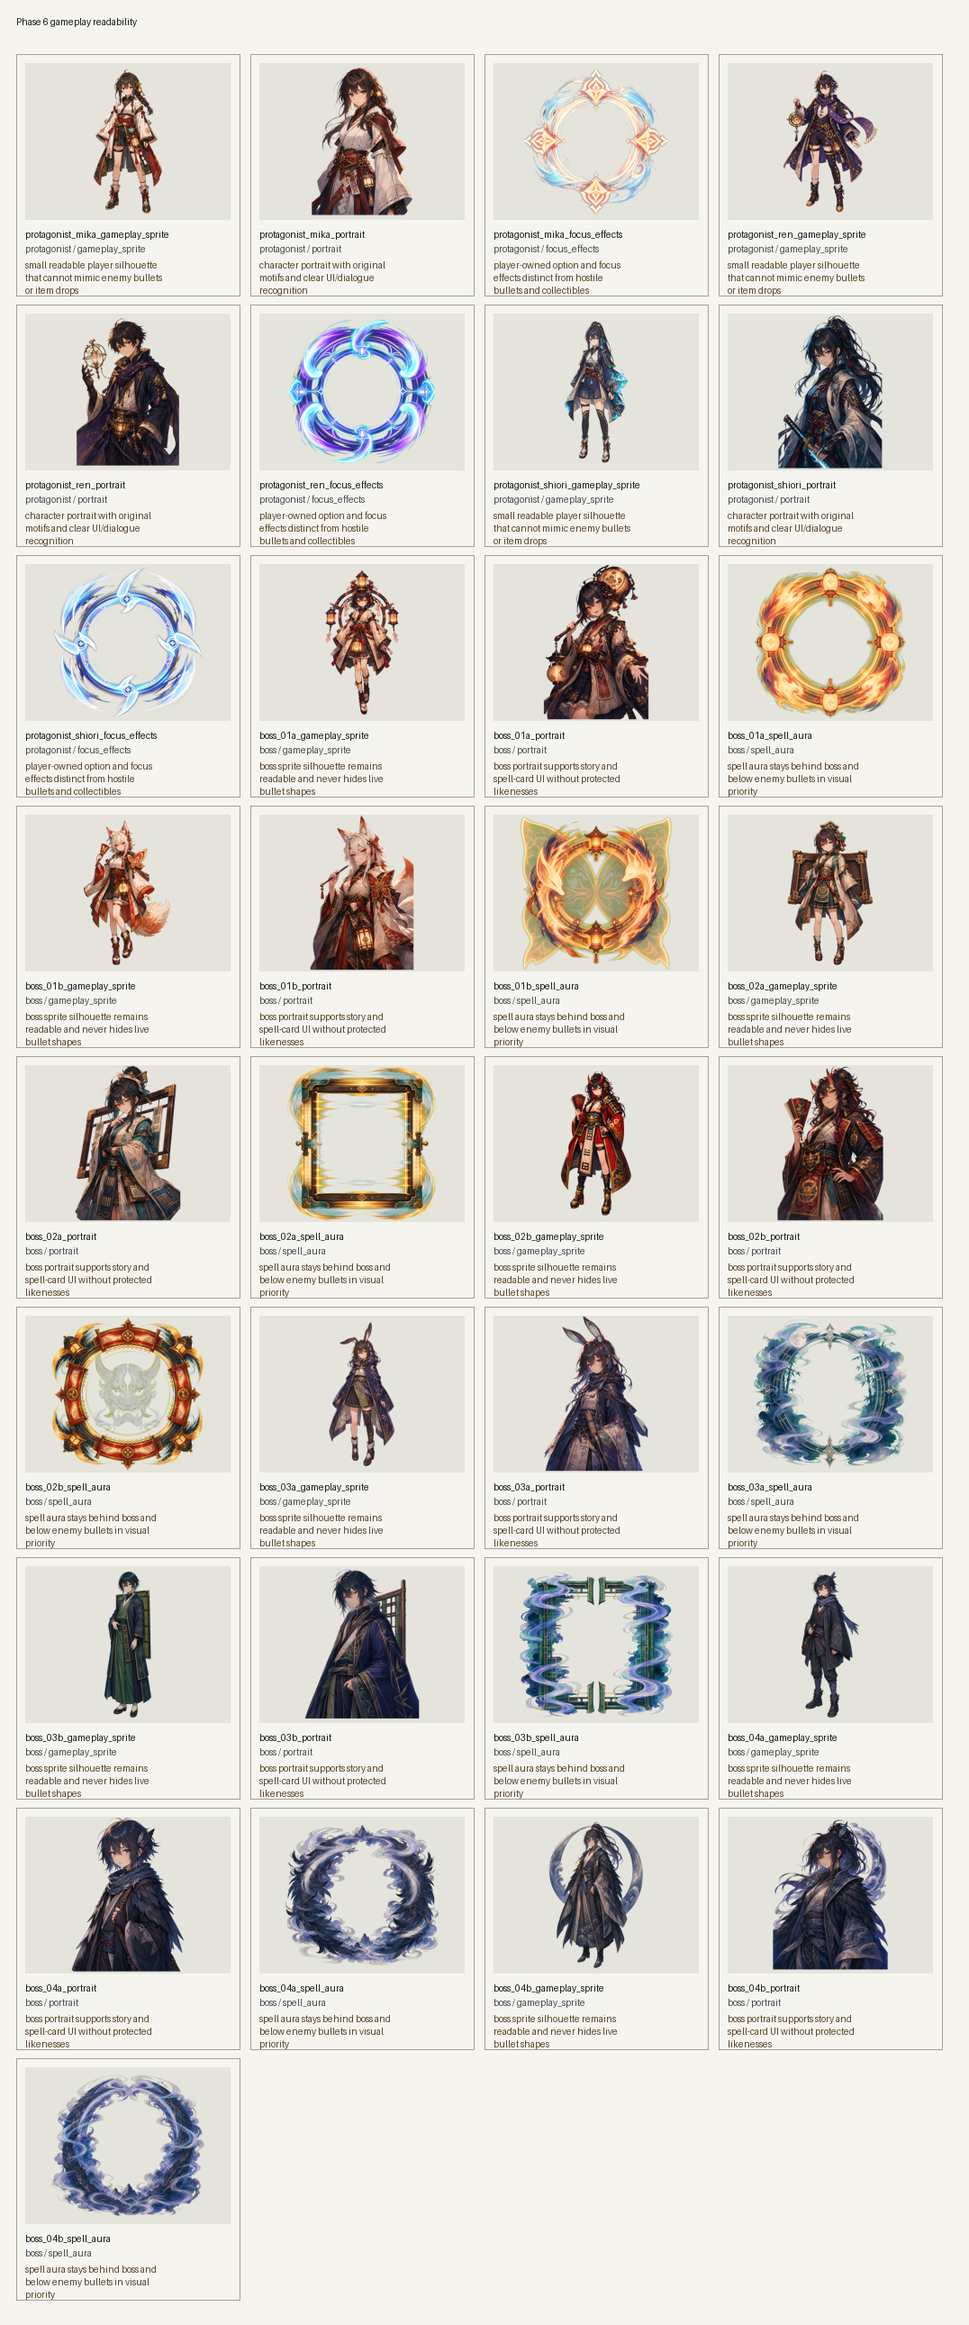
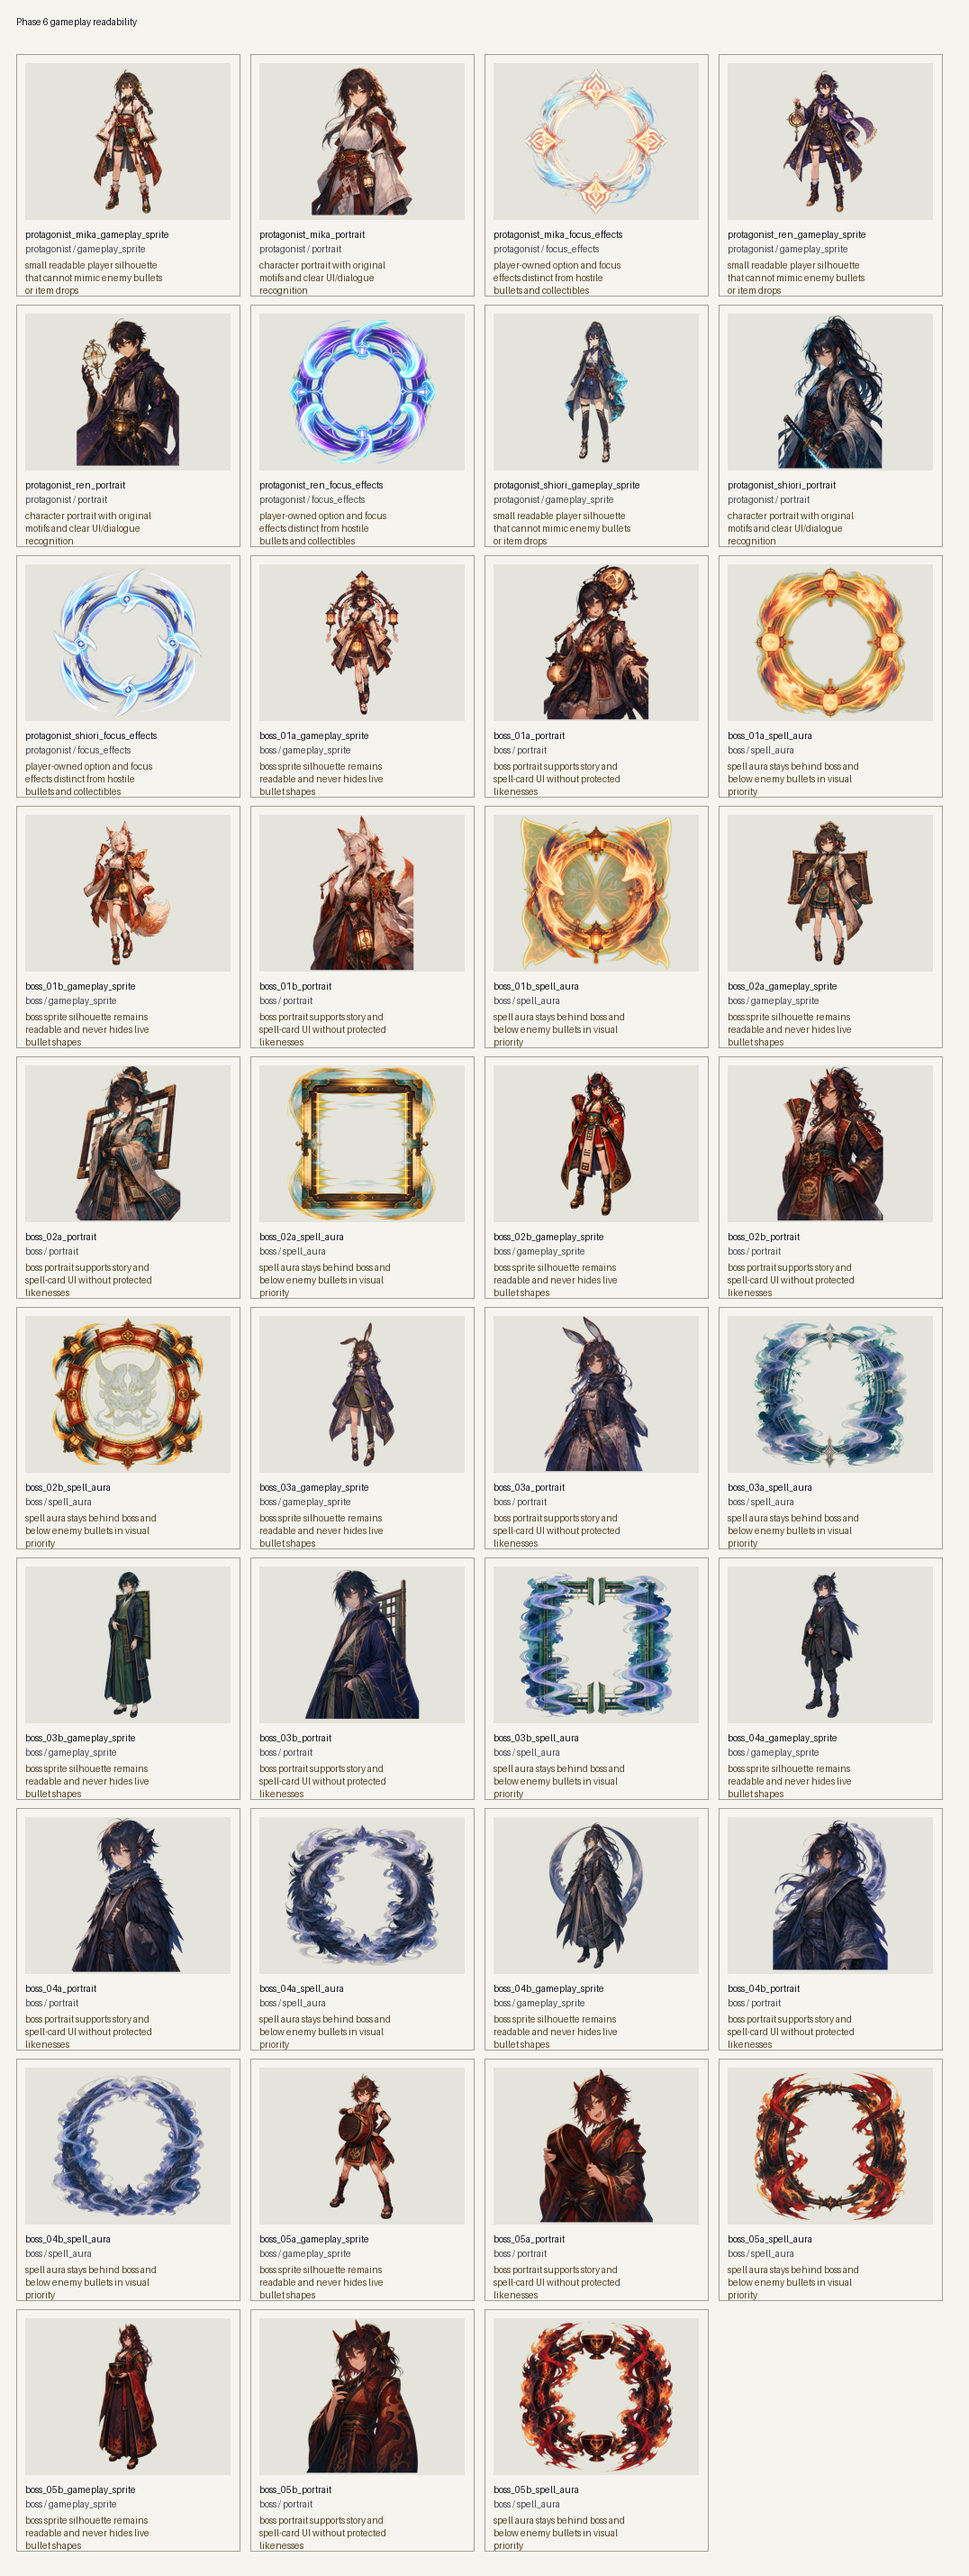
feat: add phase 6 boss art stage 5

diff --git a/docs/art/review/phase6_asset_acceptance.md b/docs/art/review/phase6_asset_acceptance.md
@@ -36,3 +36,9 @@
 | boss_04b_gameplay_sprite | accepted | Commanding wind-boss silhouette uses one large crescent back-frame; no compass stars, paper strips, camera, fan, or dangling item-like charms. | Matches Kasumi mountain wind sovereign direction. | Regenerated after rejecting compass-star and charm clutter. |
 | boss_04b_portrait | accepted | Portrait-only crescent and feather details stay large and non-projectile; no protected reporter-tengu markers. | Matches Stage 4 storm authority palette. | Hair feather is a UI detail, not gameplay debris. |
 | boss_04b_spell_aura | accepted | Thick connected storm-feather crescent leaves open center; no star, bead, talisman, newspaper, or needle-streak clutter. | Matches Stage 4 main-boss wind pressure aura. | Used behind boss only and below live bullets. |
+| boss_05a_gameplay_sprite | accepted | Compact drummer silhouette with smooth drum rim; no studs, bead rows, fire beads, talisman clutter, or wide drumstick props. | Matches Stage 5 little oni drummer direction. | Regenerated until drum edge and ribbons stopped reading as projectile dots. |
+| boss_05a_portrait | accepted | Portrait-only drum and cloth detail uses broad continuous motifs, not small projectile-like studs. | Matches warm oni banquet palette. | UI/story asset; not reused as live bullet language. |
+| boss_05a_spell_aura | accepted | Broad drum-ring and fire-cloth strokes leave open center; large fixed emblems are frame pieces, not item drops. | Matches Stage 5 drumbeat aura language. | Used behind boss only and below live bullets. |
+| boss_05b_gameplay_sprite | accepted | Narrow banquet-ruler silhouette with cup held close; no detached fire beads, coin-like shine, flower ornament, or wide sleeve clutter. | Matches Stage 5 oni banquet princess direction. | Regenerated after rejecting wide cup/sleeve and item-like ornament risks. |
+| boss_05b_portrait | accepted | Portrait-only lacquer and hair ornament detail stays large; no small bullet-like beads or detached flames. | Matches warm red-black banquet authority palette. | UI/story asset; runtime sprite remains cleaner. |
+| boss_05b_spell_aura | accepted | Broad cup-gate and fire-cloth aura leaves open center; cup emblems are large frame elements, not collectibles. | Matches Stage 5 main-boss banquet fire aura. | Used behind boss only and below live bullets. |

diff --git a/docs/art/review/phase6_contact_sheets.md b/docs/art/review/phase6_contact_sheets.md
@@ -2,5 +2,5 @@
 
 | Sheet | Accepted assets | Output | Notes |
 | --- | ---: | --- | --- |
-| bosses | 24 | `phase6_contact_sheet_bosses.png` | ready for review |
-| gameplay_readability | 33 | `phase6_contact_sheet_gameplay_readability.png` | ready for review |
+| bosses | 30 | `phase6_contact_sheet_bosses.png` | ready for review |
+| gameplay_readability | 39 | `phase6_contact_sheet_gameplay_readability.png` | ready for review |
